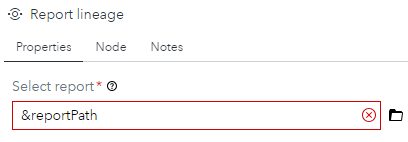
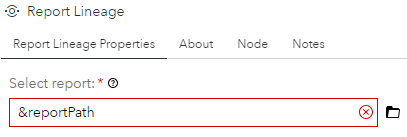
Update custom step: Report Lineage

diff --git a/Report Lineage/README.md b/Report Lineage/README.md
@@ -2,7 +2,7 @@
 
 ## Description
 
-This custom step extracts lineage information for a report. The mentioned lineage starts with the CAS librar(y)(ies) and follows the CAS table(s), the CAS table columns, the report columns, the calculated columns and the use of the report/calculated columns in the different report objects.
+This custom step extracts lineage information for a SAS Visual Analytics report. The mentioned lineage starts with the CAS librar(y)(ies) and follows the CAS table(s), the CAS table columns, the report columns, the calculated columns and the use of the report/calculated columns in the different report objects.
 
 ## SAS Viya Support
 
@@ -12,26 +12,28 @@ Created and tested on Viya 4, Stable 2023.05
 
 When the JSON format for a SAS VA report changes, it might be possible that this custom step needs to be updated.
 
-
 ## Typical usage
 
 This custom step generates the lineage for 1 report. The output can be stored in your data warehouse and/or be stored directly in CAS to create a report on.
 
-This custom step is able to run under the control of the [Loop](../Loop/README.md) custom step to generate the report lineage for more than one report at a time.
+Note that this custom step is able to run under the control of the [Loop Deployed Object](../Loop%20Deployed%20Object/README.md) custom step to generate the report lineage for more than one report at a time.
 
 # User Interface
 
-## Tab: Properties
+## Tab: Report Lineage Properties
 
 ![Properties](img/UI_Properties.PNG)
 
 - **Select report**: Here you can select the report for which you want to generate the lineage.
 
 Note that: 
-- Make sure that, in case of using the [Loop](../Loop/README.md) custom step, the macro variable as specified in the flow that contains the [Loop](../Loop/README.md) custom step, needs to be used as shown below, where you can ignore the red cross. After that you can deploy the flow as a job to make it available to the [Loop](../Loop/README.md) custom step.
+- Make sure that, in case of using the [Loop Deployed Object](../Loop%20Deployed%20Object/README.md) custom step, the macro variable as specified in the flow that contains the [Loop Deployed Object](../Loop%20Deployed%20Object/README.md) custom step, needs to be used as shown below, where you can ignore the red cross. After that you can deploy the flow as a job to make it available to the [Loop Deployed Object](../Loop%20Deployed%20Object/README.md) custom step.
 - The macro variable, 'reportPath', is just an example.
 
 ![macro variable](img/UI_Properties_01.PNG)
+
+## Tab: About
+![About](img/UI_About.PNG)
 
 ## Usage
 
@@ -39,7 +41,9 @@ Download the .step file, upload it into your environment and start using it, for
 
 ![usage](img/Usage_01.PNG)
 
-In this simple example, the output of the report lineage custom step is directly append, by the [Load to CAS](../Load%20to%20CAS/README.md) custom step, into a CAS table to build a report on.
+In this simple example, the output of the report lineage custom step is directly append, by the 'Load to CAS' custom step, into a CAS table to build a report on.
+
+Note that the flow shown can be used by the [Loop Deployed Object](../Loop%20Deployed%20Object/README.md) custom step.
 
 ## Output port
 
@@ -48,8 +52,8 @@ The custom step has one output table with the following information:
 
 ## Change Log
 
-Version 1 (18JUL2023)   : Initial version.
+Version 1.2 (27DEB2024) : Added UTF8 support.
 
 Version 1.1 (08AUG2023) : Code with additional functionality, added by Michael Herrmann, has been merged and tested. (**set columnName = columnLabel if empty; tranwrd columnId -> columnName in expression to make it more readable.; For that also include parameters from prompts which were not analyzed before.**)
 
-Version 1.2 (27DEB2024) : Added UTF8 support.
+Version 1 (18JUL2023)   : Initial version.
